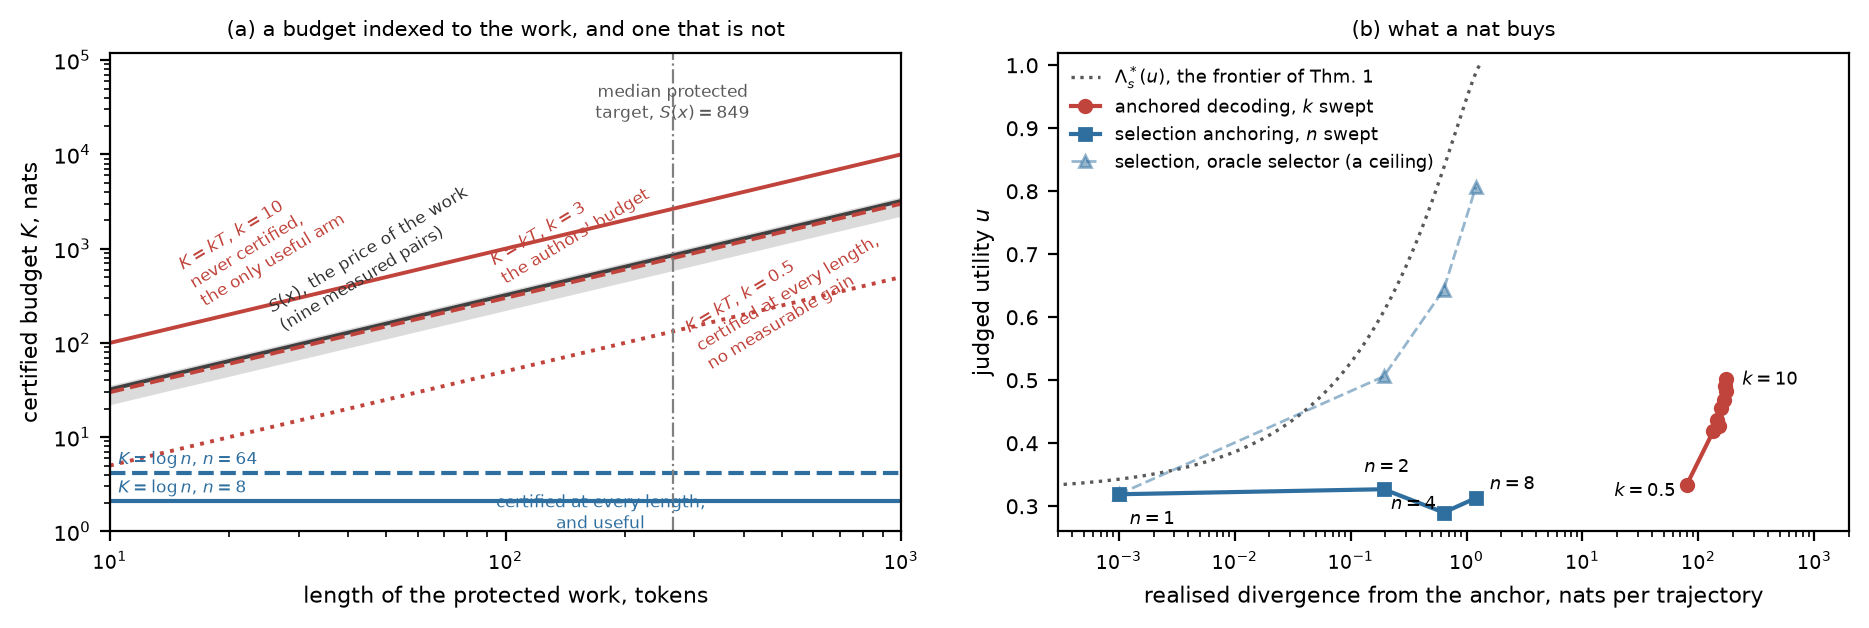
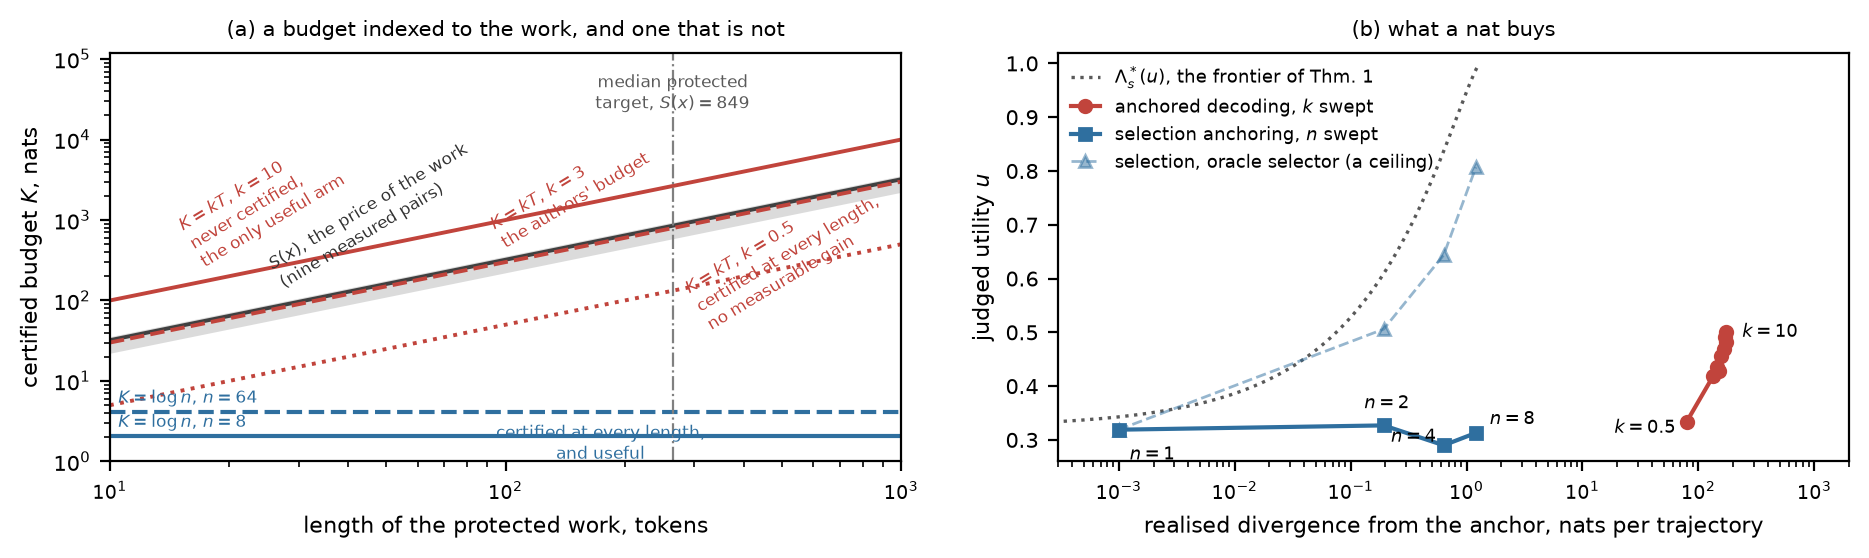
Section 6 states the power of the zero-leakage result instead of leaving it implicit
A reviewer reading 0.0000 at every n reasonably asks whether the test can detect anything. It can:
the same pipeline puts 80% of passages above threshold for the unconstrained memoriser
(ge_0p01_pct in selection_extraction.csv), and the adversarial selector does move the served text,
1.51 -> 1.94 words of longest common substring before falling back to 1.78 at n=64. What is zero is
the ANCHOR's own rate, which is what Proposition 3 multiplies -- and it is zero because the anchor
never saw the work.

diff --git a/figures/make_figures_v4.py b/figures/make_figures_v4.py
@@ -277,7 +277,7 @@ def selection_frontier():
     odo = list(csv.DictReader(open(RESULTS / "odometer.csv")))
     if not sel or not dec or not onset or not odo:
         raise FileNotFoundError("an input CSV for selection_frontier is empty")
-    fig, (axL, ax) = plt.subplots(1, 2, figsize=(9.4, 3.2))
+    fig, (axL, ax) = plt.subplots(1, 2, figsize=(9.4, 2.85))
 
     # ---- panel (a): a budget that scales with the work against one that does not -------------
     ss = sorted(float(r["s_safe"]) for r in onset)          # nats per token, nine pairs
